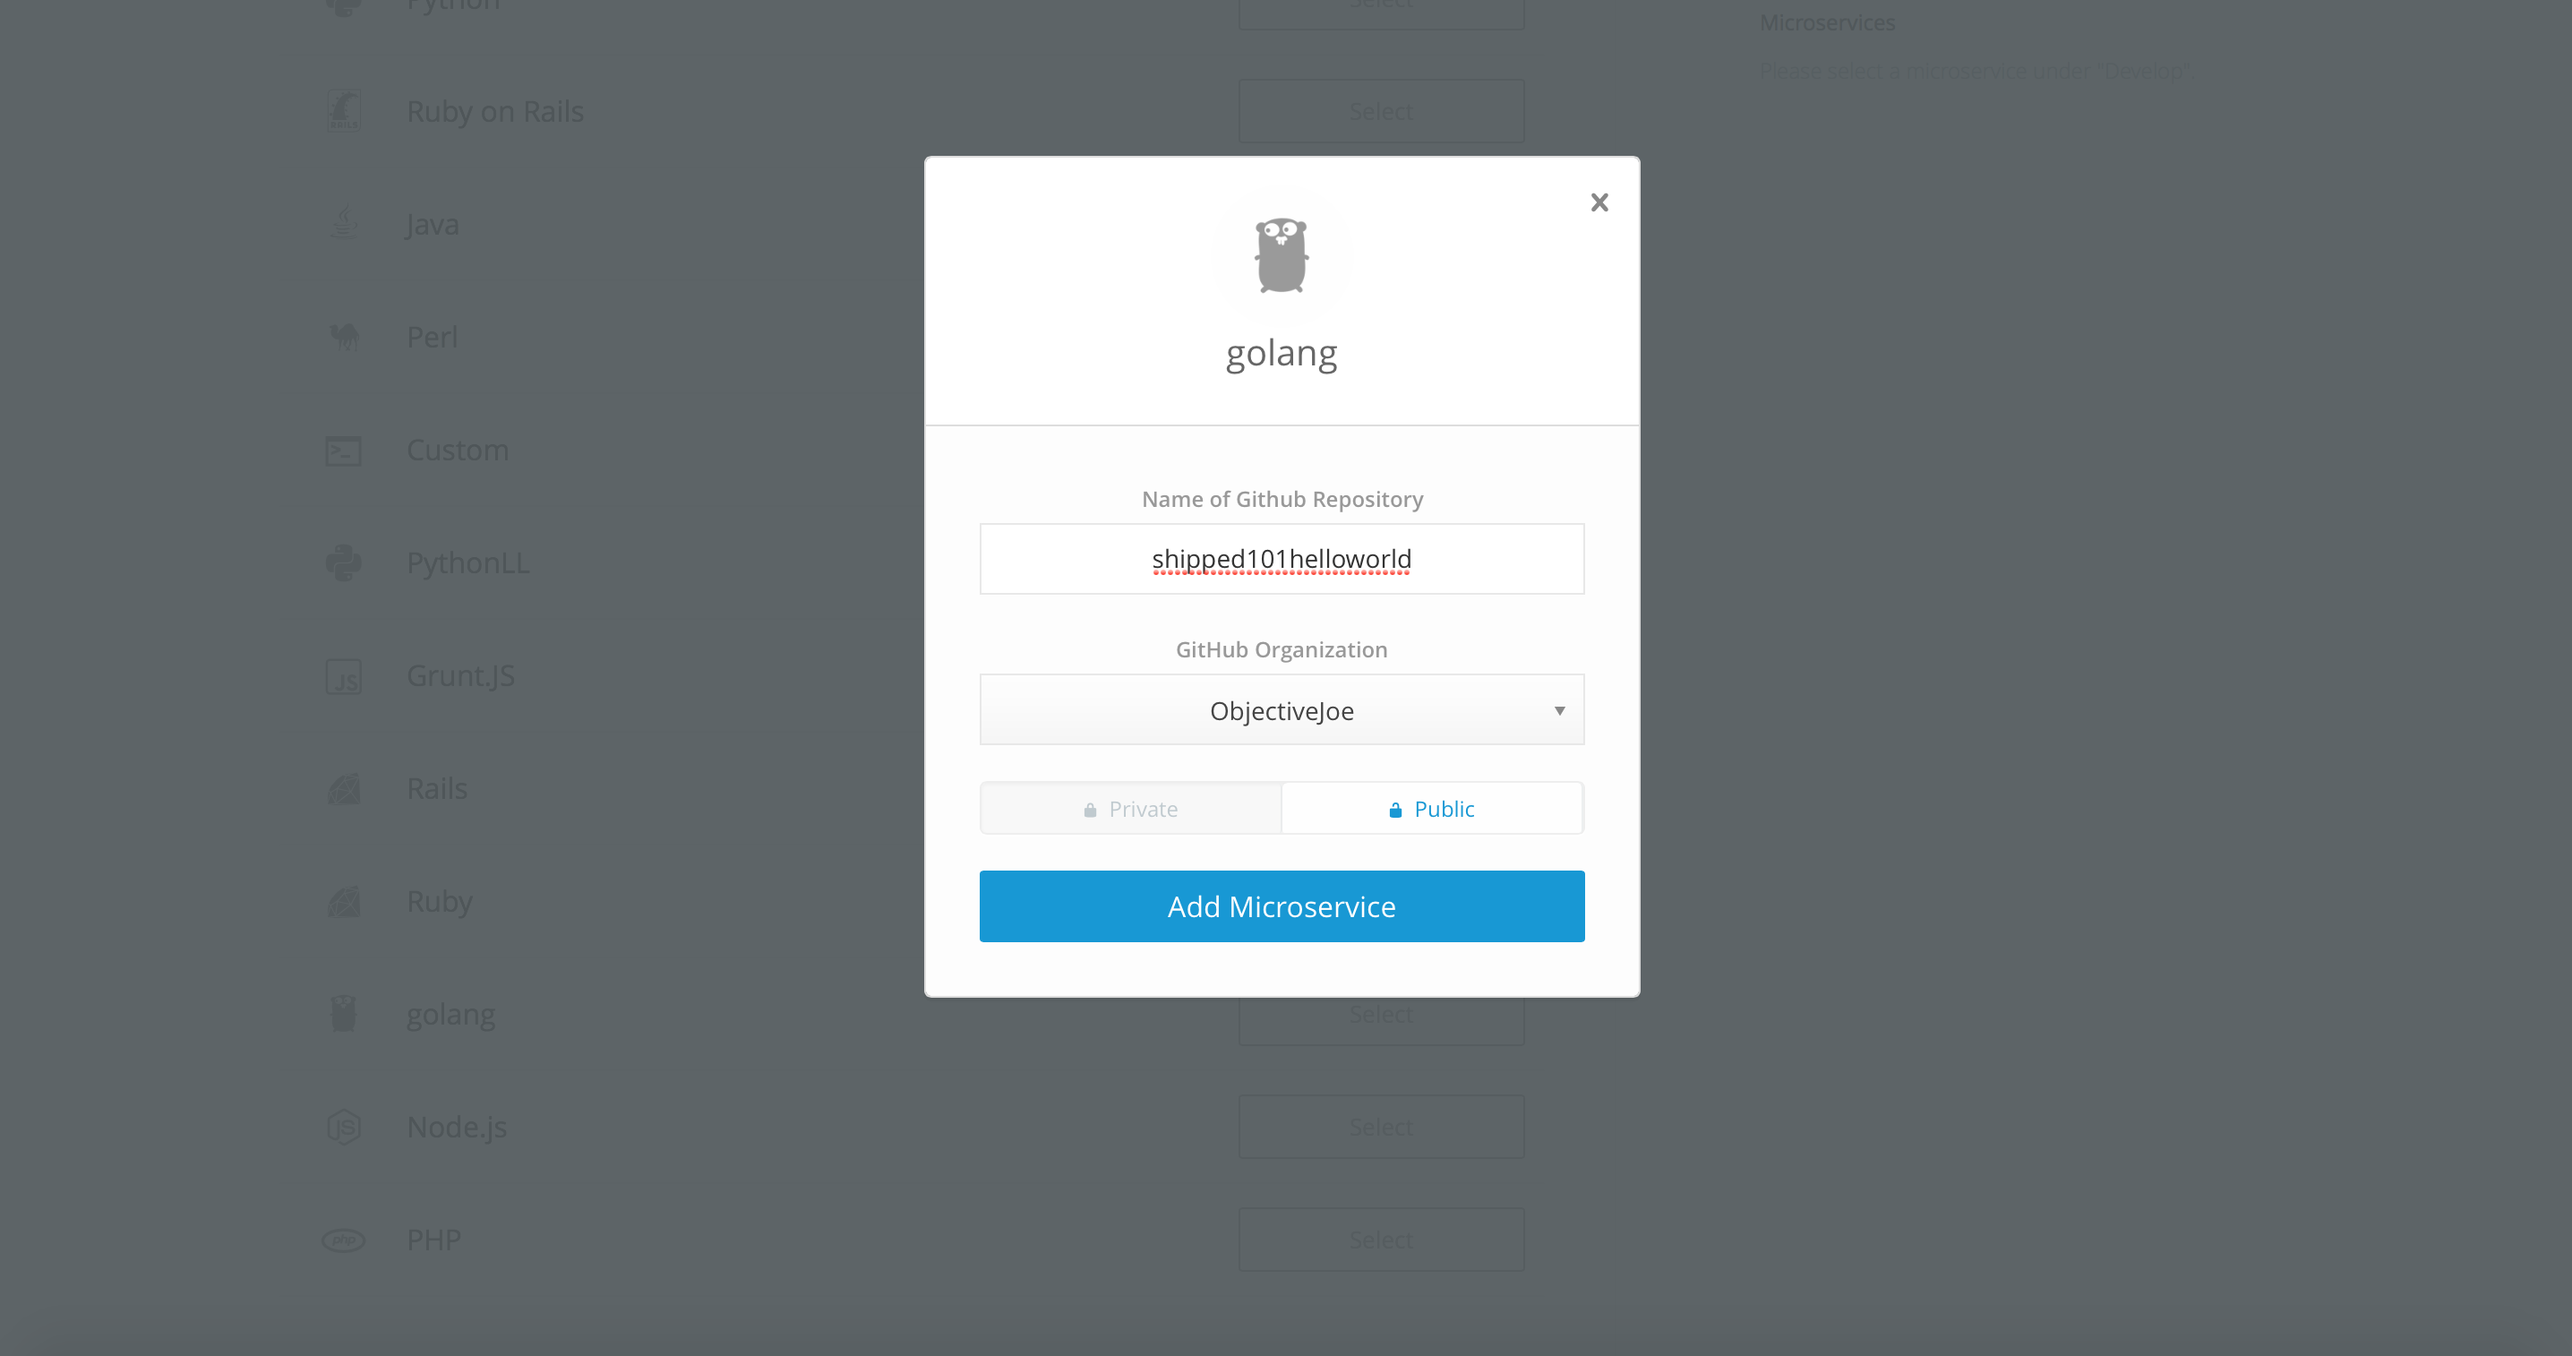
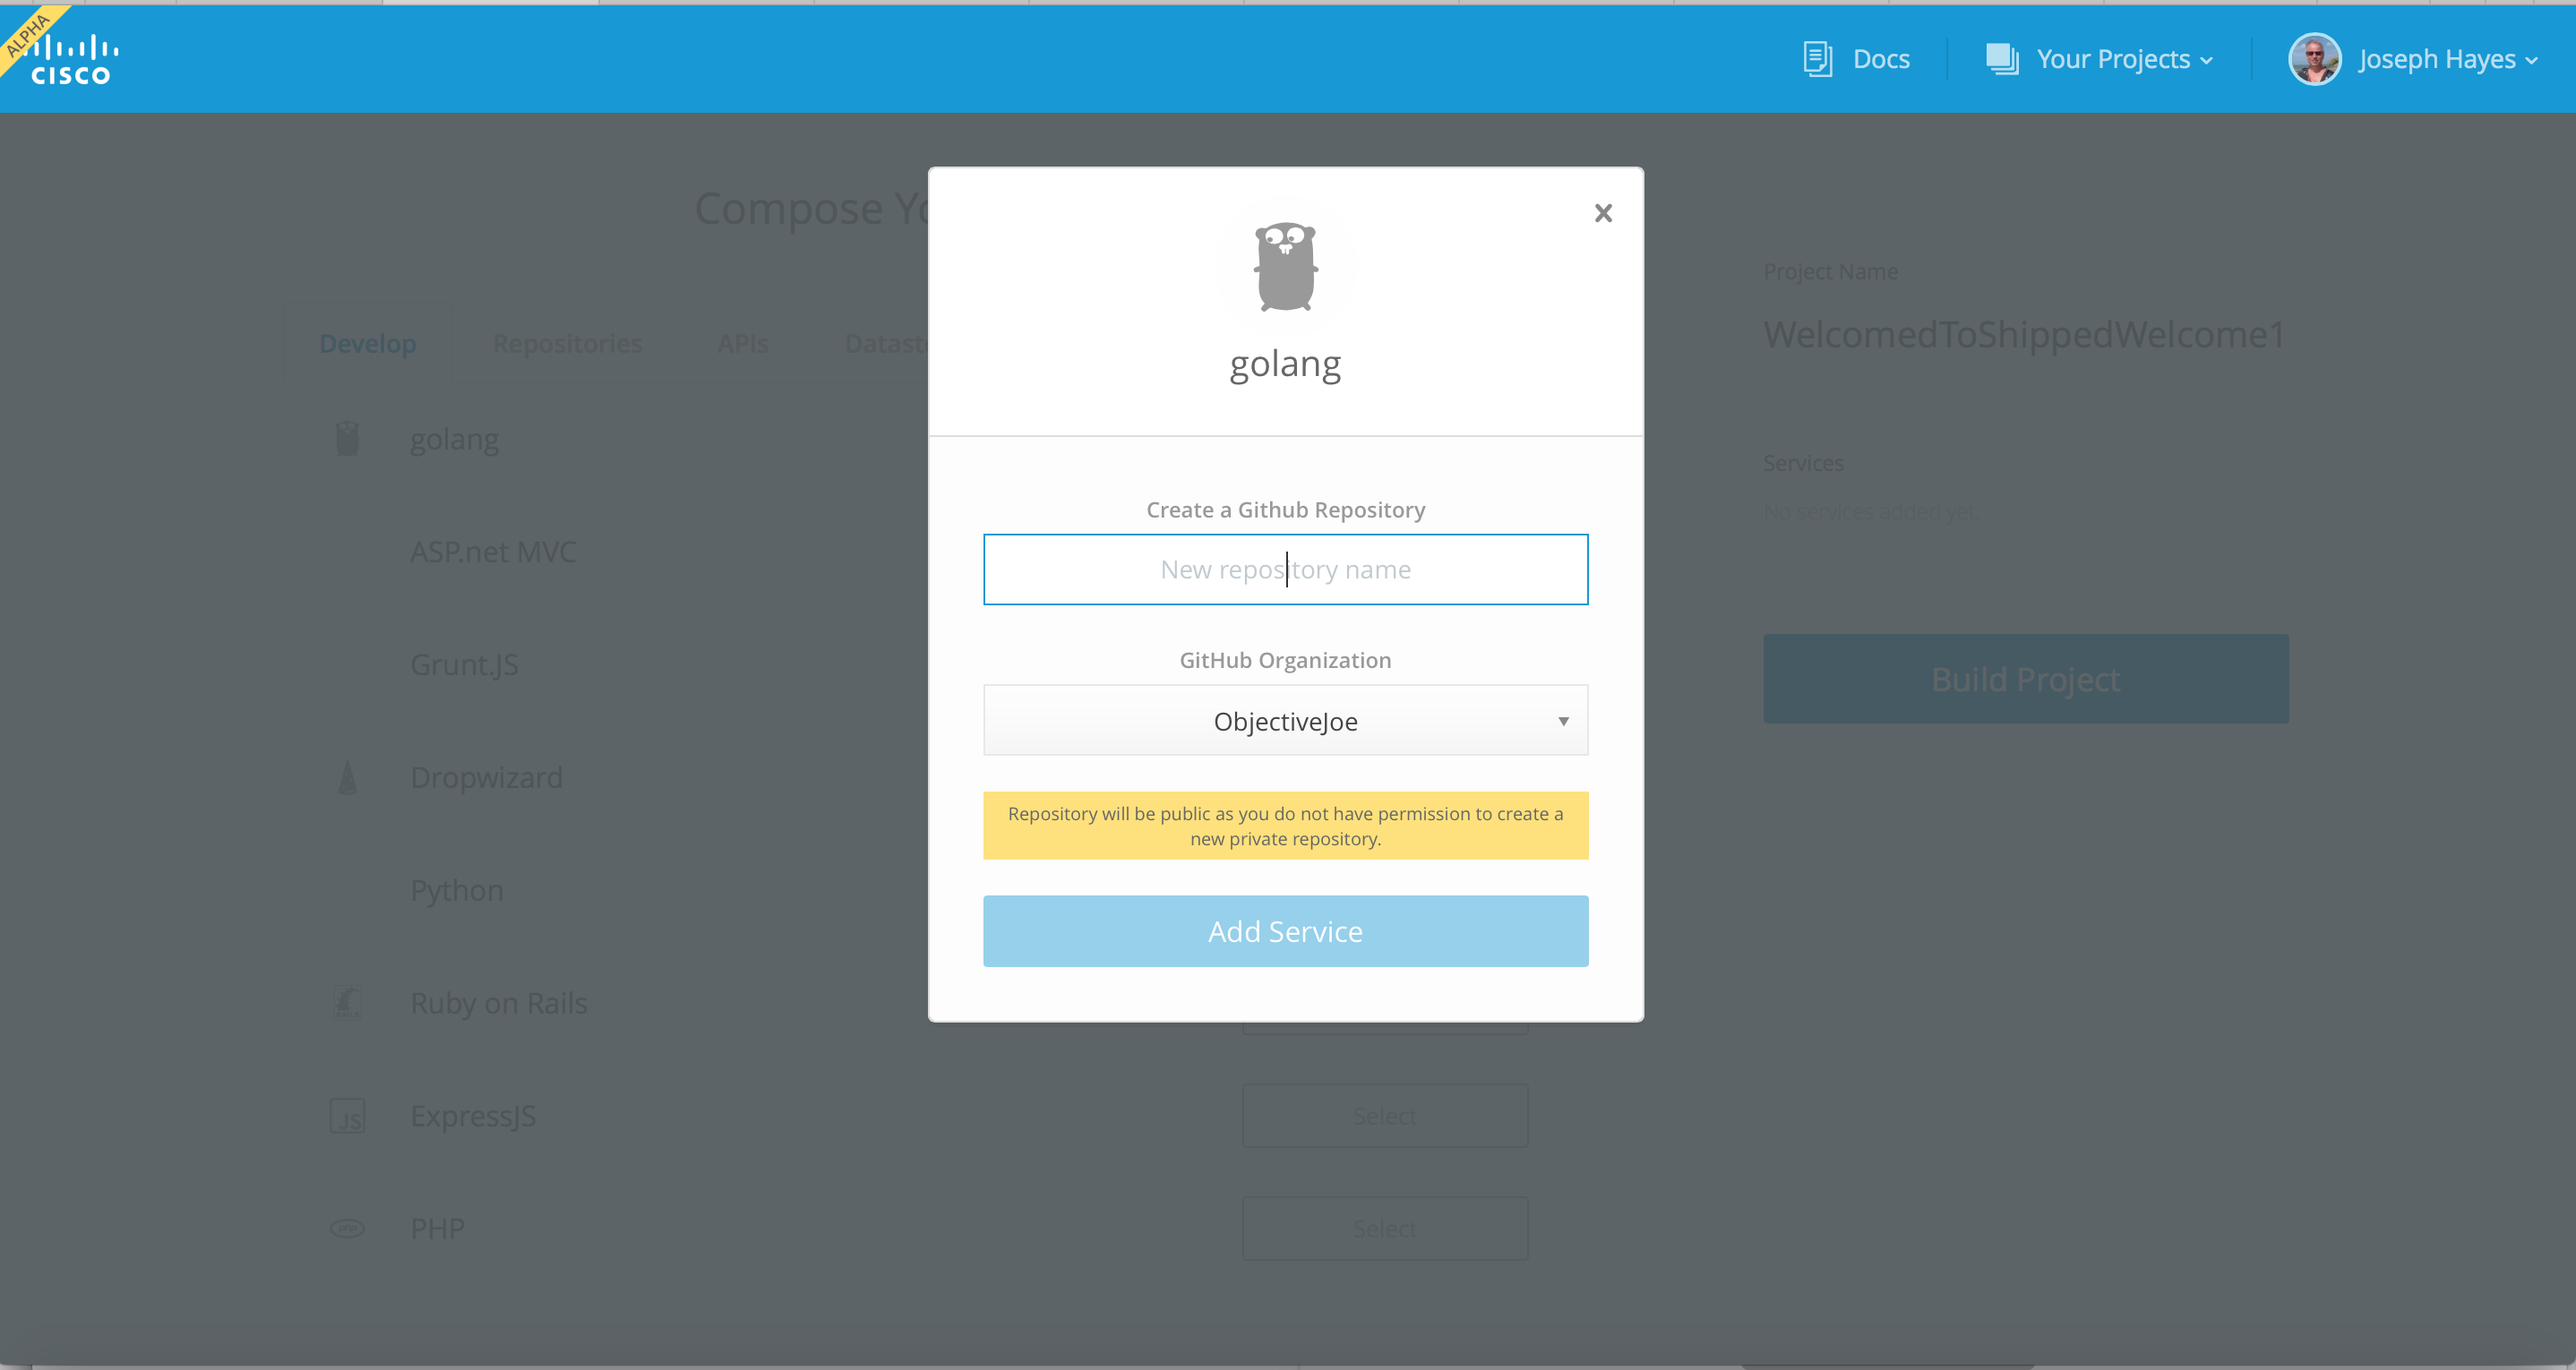
updated png files, cleaned up text a bit based on open issues

diff --git a/shipped-101-first-project/src/posts/files/shipped-101-first-project/1.md b/shipped-101-first-project/src/posts/files/shipped-101-first-project/1.md
@@ -25,12 +25,24 @@ Enter the name of your new project name and select "Start Composing". For this e
 
 ![](posts/files/shipped-101-first-project/startcomposing.png)
 
-## Add Microservices
-I am going to choose Golang for my project. I will let the value for Repository default to DockerHub as that is where I would like to have my project source code created and stored. I will then click "Select"
+### Development Frameworks###
+
+It allows us to quickly create projects from pre-defined development frameworks including
+
+* Ruby on Rails
+* GruntJS
+* Python
+* Golang
+* Dropwizard
+* ExpressJS
+* ASP.Net MVC
+* PHP
+
+I am going to choose Golang for my project. 
 ![](posts/files/shipped-101-first-project/compose.png)
 
 ## Choose a Repository
-Enter a name for the repository for the Docker image that will be created as a part of this project. I am going to choose shipped101helloworld. As I have a free account on GitHub, my only choice is to choose "Public". I will then click "Add Microservices" to continue; Today I only want to add one microservice so I will continue by choosing "Next Step"
+Enter a name for the repository for the Docker image that will be created as a part of this project. I am going to choose shipped101helloworld. As I have a free account on GitHub, my only choice is to choose "Public". I will then click "Add Services" to continue; Today I only want to add one microservice so I will continue by choosing "Next Step"
 
 ![](posts/files/shipped-101-first-project/addmicroservice_withname.png)
 

diff --git a/shipped-100-intro-shipped/src/posts/files/shipped-100-intro-shipped/2.md b/shipped-100-intro-shipped/src/posts/files/shipped-100-intro-shipped/2.md
@@ -98,6 +98,9 @@ When you run the bootstrap script your project will be created in GitHub, and it
 
 Within that directory you will find a subdirectory with a Dockerfile representing the image you choose, and a .shipped directory with a Vagrantfile which is used to configure and start your Docker image in VirtualBox.
 
+
+For many buildpacks Shipped has a hello-world application that is downloaded for you -- you won't need to create anything here manually in order to get started. Once that is in place, the bootstrap script should start the actual application locally and tell you it started on localhost:####, so you should be able to curl localhost:#### and have it return a hello world response.
+
 ## Submitting your Project to GitHub
 
 Once you have edited your project, you can submit it back to GitHub. This will trigger Shipped to sync to your newest code, and for it to start a new build of your project.

diff --git a/shipped-101-first-project/src/posts/files/shipped-101-first-project/2.md b/shipped-101-first-project/src/posts/files/shipped-101-first-project/2.md
@@ -74,6 +74,8 @@ CMD ["echo", "noop"]<br></pre></li>
 
 After verifying you are in the directory that contains the Dockerfile, we are ready to proceed.
 
+For the Golang buildpack Shipped has a hello-world application that is downloaded for you -- you won't need to create anything here manually in order to get started. Once that is in place, the bootstrap script should start the actual application locally and tell you it started on localhost:####, so you should be able to curl localhost:#### and have it return a hello world response.
+
 Issue command "cat main.go" to view the sample main.go file that has been installed for you.
 
 <pre>$ cat main.go</pre></li>

diff --git a/shipped-100-intro-shipped/src/posts/files/shipped-100-intro-shipped/1.md b/shipped-100-intro-shipped/src/posts/files/shipped-100-intro-shipped/1.md
@@ -65,8 +65,8 @@ Shipped utilizes [Vagrant](https://docs.vagrantup.com/v2/) to help manage the Vi
 
 ###Cost Efficiency
 * Containers are lightweight, therefore, more containers than virtual machines can run simultaneously on a host machine.
-* Drive down development,
-* Drive down deployment, 
+* Drive down your development costs through Continuous Integration
+* Drive down deployment costs through Continuous Deployment, 
 * Drive down maintenance / support costs,
 
 ###Getting started with Shipped
